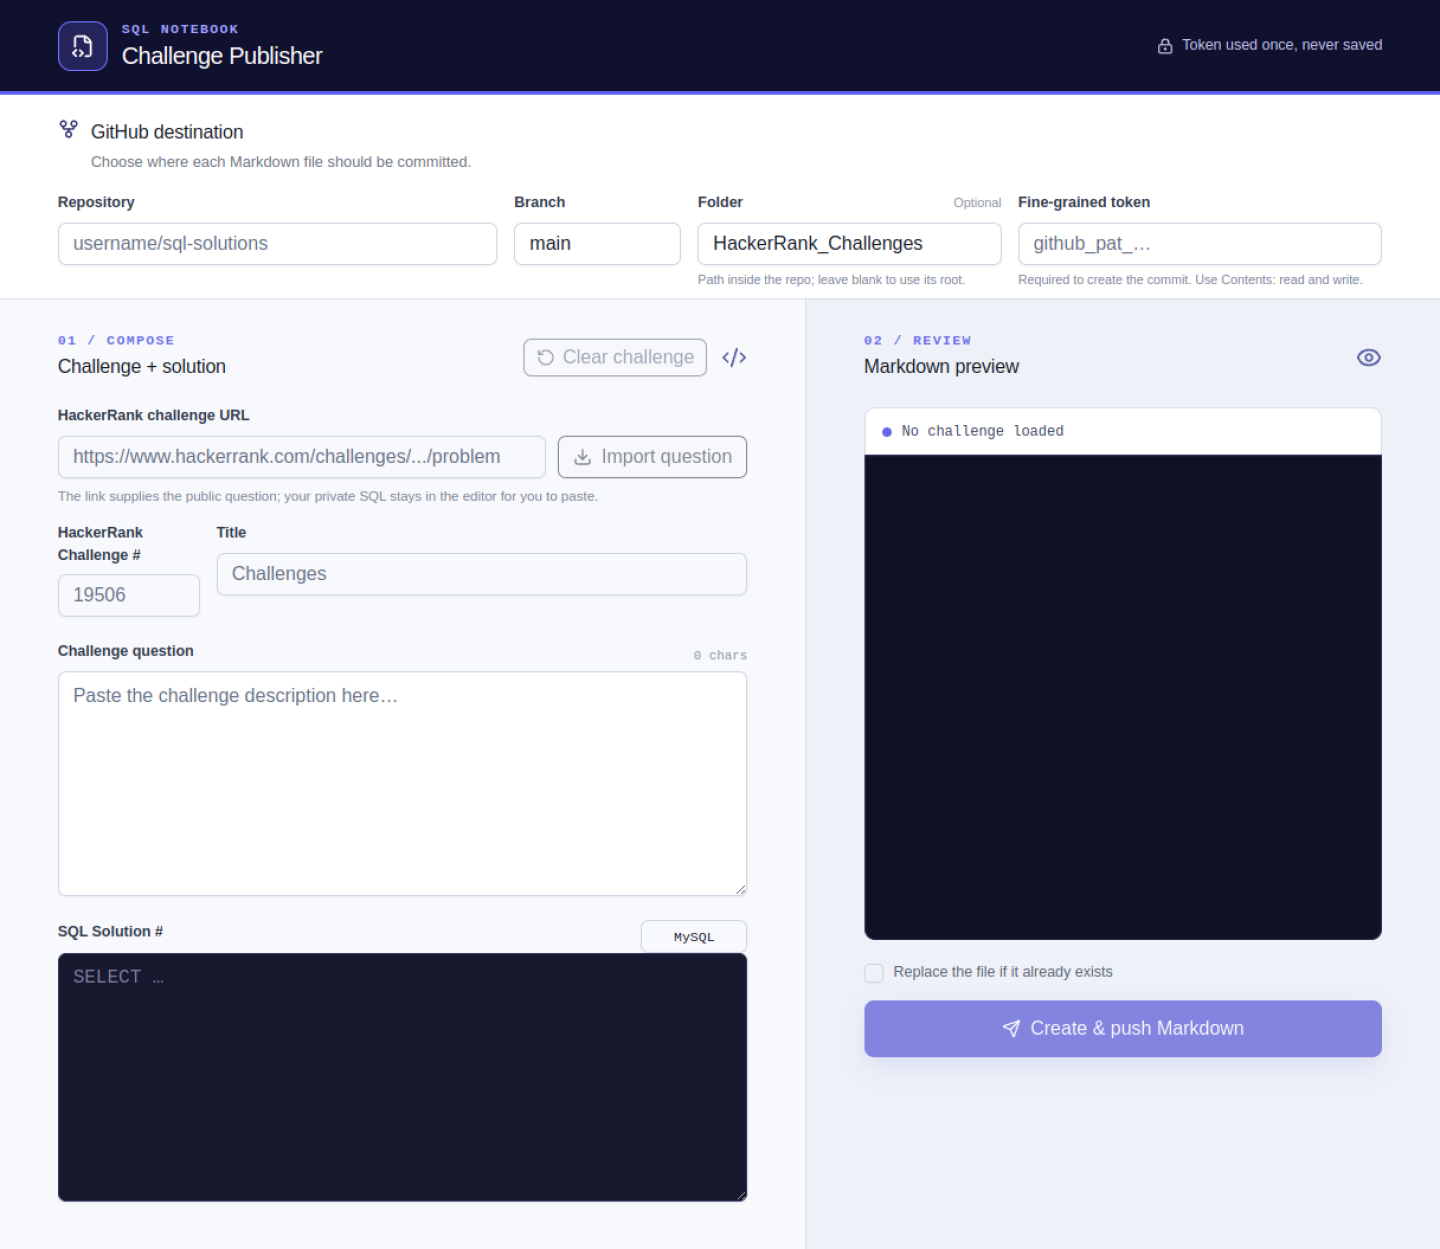
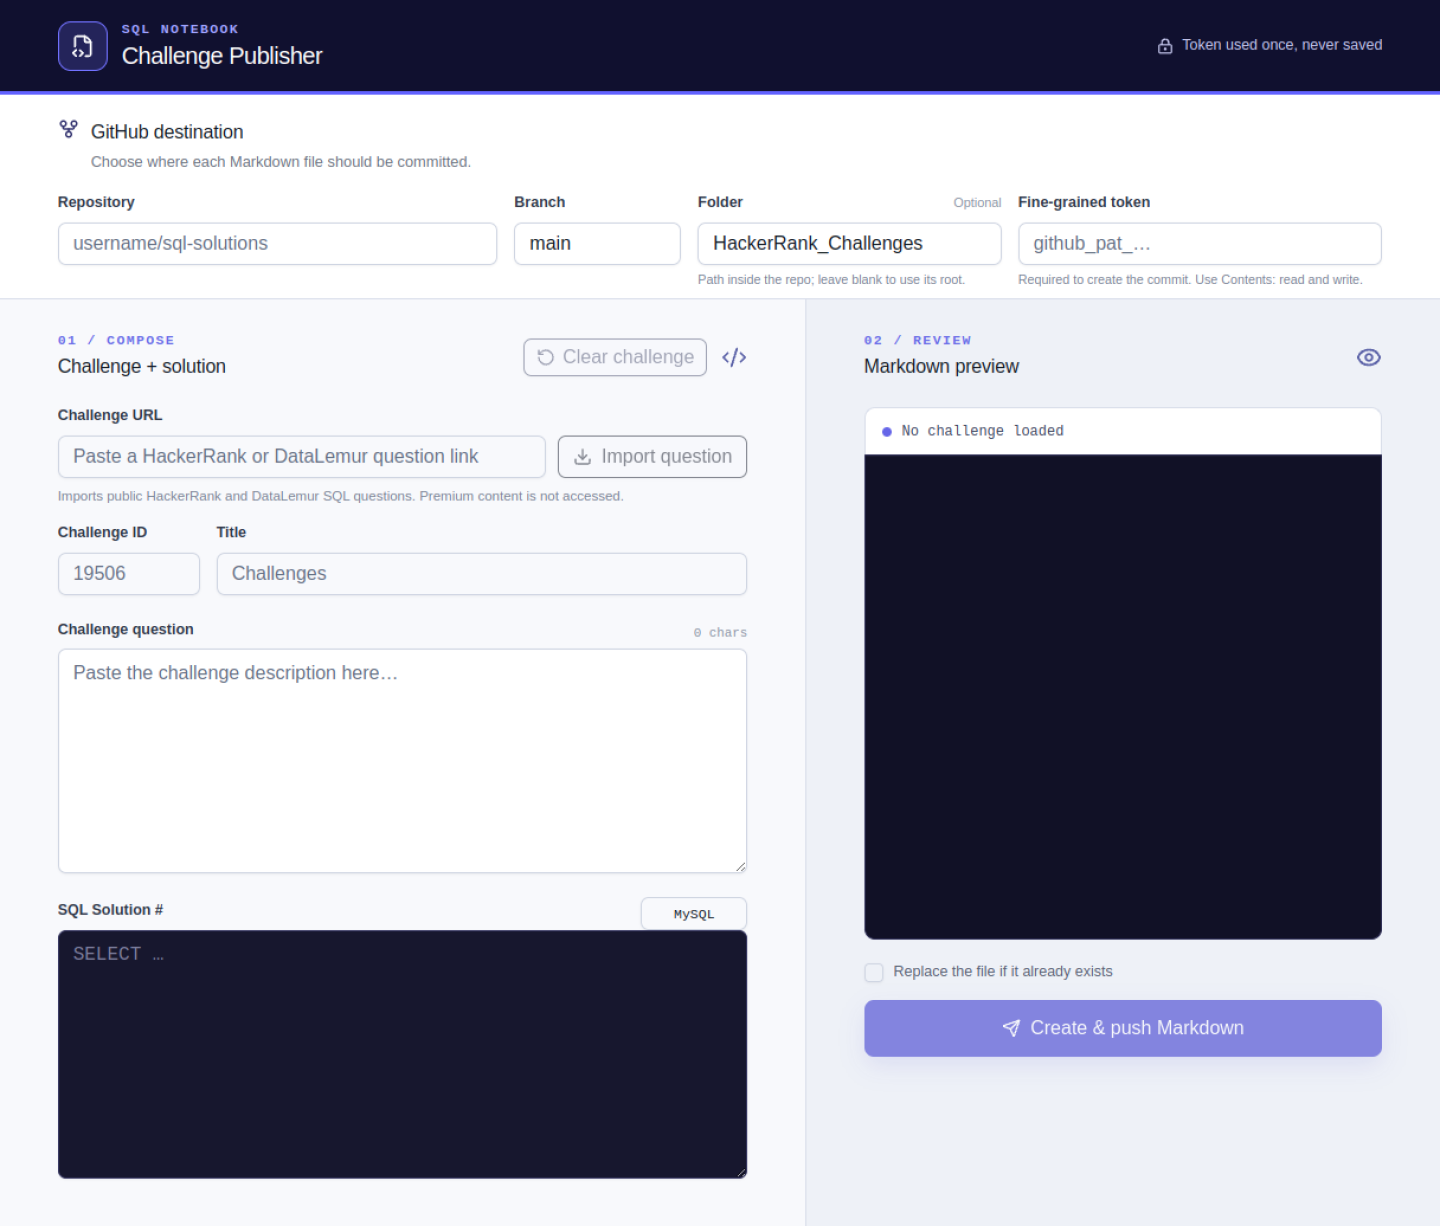
Document DataLemur challenge support

diff --git a/README.md b/README.md
@@ -2,9 +2,9 @@
 
 ## Description
 
-SQL Challenge Journal is a reusable way for anyone to organize and store their SQL practice solutions on GitHub. Each challenge is saved as an individual Markdown file containing the HackerRank problem statement, a link to the original challenge, and the user's SQL solution.
+SQL Challenge Journal is a reusable way for anyone to organize and store their SQL practice solutions on GitHub. Each challenge is saved as an individual Markdown file containing the public HackerRank or DataLemur problem statement, a link to the original challenge, and the user's SQL solution.
 
-This repository demonstrates the output of the [SQL Notebook Publisher](https://sql-challenge-publisher.das-reemika.chatgpt.site/), a public web app that imports HackerRank challenge details, creates a consistent Markdown document, and commits it to a GitHub repository selected by the user. Anyone can use the app with a repository and GitHub token they control.
+This repository demonstrates the output of the [SQL Notebook Publisher](https://sql-challenge-publisher.das-reemika.chatgpt.site/), a public web app that imports HackerRank and DataLemur SQL challenge details, creates a consistent Markdown document, and commits it to a GitHub repository selected by the user. Anyone can use the app with a repository and GitHub token they control.
 
 ## Snap of SQL Notebook Publisher web app
 
@@ -16,7 +16,7 @@ This repository demonstrates the output of the [SQL Notebook Publisher](https://
 2. Create or choose a GitHub repository where you have permission to commit files.
 3. In **Repository**, enter the destination in `owner/repository` format—for example, `your-username/sql-challenge-journal`.
 4. In **Branch**, enter an existing branch in that repository. Use `main` unless you intentionally want the files on another branch.
-5. In **Folder**, enter the directory that should contain the Markdown files, such as `HackerRank_Challenges`. Leave it blank to save files at the repository root.
+5. In **Folder**, enter the directory that should contain the Markdown files. The app uses `HackerRank_Challenges` or `DataLemur_Challenges` when the provider defaults are selected. Leave it blank to save files at the repository root.
 6. Create and enter a fine-grained GitHub token:
    1. Open GitHub's [New fine-grained personal access token](https://github.com/settings/personal-access-tokens/new) page. You can also review GitHub's [personal access token guide](https://docs.github.com/en/authentication/keeping-your-account-and-data-secure/managing-your-personal-access-tokens).
    2. Enter a descriptive **Token name**, such as `SQL Challenge Publisher`, and choose an expiration date.
@@ -25,9 +25,9 @@ This repository demonstrates the output of the [SQL Notebook Publisher](https://
    5. Under **Repository permissions**, find **Contents** and select **Read and write**. No additional repository permissions are required for publishing these Markdown files.
    6. Select **Generate token**, copy the token immediately, and paste it into the web app's **Fine-grained token** field.
    7. Keep the token private. The app uses it only for the GitHub request and does not save it. Revoke or rotate it from GitHub settings if it is ever exposed.
-7. Paste a HackerRank problem link into **HackerRank challenge URL**.
-8. Select **Import question**. The app imports the public challenge description and fills in the challenge number and title.
+7. Paste an individual public HackerRank or DataLemur SQL question link into **Challenge URL**. Do not paste a question-catalog page.
+8. Select **Import question**. The app detects the provider and imports the public challenge description, ID, title, and available SQL dialect. DataLemur premium questions are not accessed.
 9. Review the imported question, then paste your accepted query into **SQL Solution #**. Update the SQL dialect if necessary.
-10. Review the generated Markdown and filename. Files follow the format `<HackerRank Challenge #>_<Title>.md`, for example `12889_The_PADS.md`.
+10. Review the generated Markdown and filename. HackerRank files follow `<Challenge ID>_<Title>.md`, such as `12889_The_PADS.md`. DataLemur files follow `DataLemur_<Challenge ID>_<Title>.md`, such as `DataLemur_31_Page_With_No_Likes.md`.
 11. Select **Create & push Markdown**. If the filename already exists, enable **Replace the file if it already exists** only when you intentionally want to overwrite it.
 12. Open the published file from the success link. Select **Clear challenge** to start the next problem while keeping your GitHub destination settings available.
